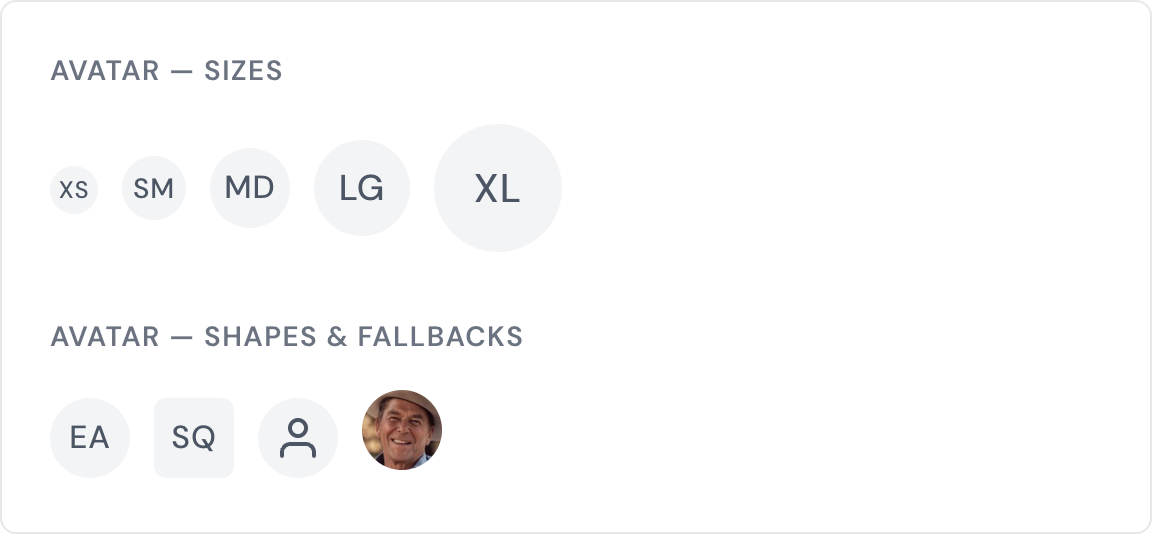
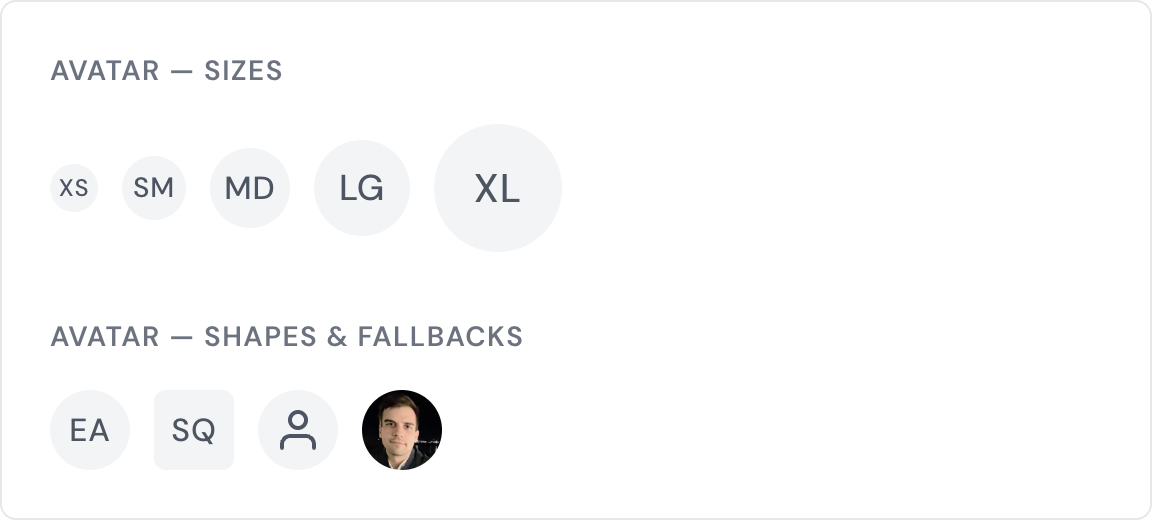
v0.4.0 (#3)

diff --git a/src/lib/avatar-editor/avatar-editor.component.ts b/src/lib/avatar-editor/avatar-editor.component.ts
@@ -6,6 +6,7 @@ import {
   OnDestroy,
   ViewEncapsulation,
   computed,
+  effect,
   input,
   output,
   signal,
@@ -64,6 +65,14 @@ export class AvatarEditorComponent implements OnDestroy {
   }));
 
   private readonly boundWheel = (e: WheelEvent) => this.onWheel(e);
+
+  constructor() {
+    effect(() => {
+      const src = this.currentSrc();
+      if (!src) return;
+      this.loadFromUrl(src);
+    });
+  }
 
   ngOnDestroy(): void {
     const canvas = this.canvasEl()?.nativeElement;
@@ -227,6 +236,25 @@ export class AvatarEditorComponent implements OnDestroy {
       this.exportType(),
       this.exportQuality(),
     );
+  }
+
+  private loadFromUrl(url: string): void {
+    const img = new Image();
+    img.crossOrigin = 'anonymous';
+    img.onload = () => {
+      this.image = img;
+      this.hasImage.set(true);
+      this.zoom.set(1);
+      this.centerImage();
+
+      requestAnimationFrame(() => {
+        this.draw();
+        const canvas = this.canvasEl()?.nativeElement;
+        canvas?.removeEventListener('wheel', this.boundWheel);
+        canvas?.addEventListener('wheel', this.boundWheel, { passive: false });
+      });
+    };
+    img.src = url;
   }
 
   private loadFile(file: File): void {

diff --git a/sandbox/sandbox.component.html b/sandbox/sandbox.component.html
@@ -308,7 +308,7 @@
     <ea-avatar initials="SQ" shape="square"></ea-avatar>
     <ea-avatar shape="circle"></ea-avatar>
     <ea-avatar
-      src="https://i.pravatar.cc/128?u=eagami"
+      src="assets/sample-avatar.jpg"
       alt="User photo">
     </ea-avatar>
   </div>
@@ -334,6 +334,18 @@
   <ea-avatar-editor
     shape="square"
     [canvasSize]="180" />
+
+  <h2>Avatar Editor — circle with existing image</h2>
+  <ea-avatar-editor
+    shape="circle"
+    [canvasSize]="180"
+    currentSrc="assets/sample-avatar.jpg" />
+
+  <h2>Avatar Editor — square with existing image</h2>
+  <ea-avatar-editor
+    shape="square"
+    [canvasSize]="180"
+    currentSrc="assets/sample-avatar.jpg" />
 </section>
 
 <!-- ─── Badge ──────────────────────────────────────────────────────────── -->

diff --git a/src/lib/avatar-editor/avatar-editor.component.scss b/src/lib/avatar-editor/avatar-editor.component.scss
@@ -116,13 +116,12 @@
     border: var(--border-width-thin) solid var(--color-border-default);
     border-radius: var(--radius-md);
     background-color: var(--color-bg-base);
-    color: var(--color-text-secondary);
+    color: var(--color-text-primary);
     cursor: pointer;
     transition: var(--transition-colors);
 
     &:hover:not(:disabled) {
       border-color: var(--color-border-focus);
-      color: var(--color-text-primary);
     }
 
     &:focus-visible {

diff --git a/src/lib/avatar/avatar.component.ts b/src/lib/avatar/avatar.component.ts
@@ -19,6 +19,7 @@ export type AvatarShape = 'circle' | 'square';
   styleUrl: './avatar.component.scss',
   changeDetection: ChangeDetectionStrategy.OnPush,
   encapsulation: ViewEncapsulation.None,
+  host: { style: 'display: inline-block; line-height: 0;' },
 })
 export class AvatarComponent {
   readonly src = input<string | undefined>(undefined);

diff --git a/CHANGELOG.md b/CHANGELOG.md
@@ -5,6 +5,18 @@ All notable changes to this project will be documented in this file.
 The format is based on [Keep a Changelog](https://keepachangelog.com/en/1.1.0/),
 and this project adheres to [Semantic Versioning](https://semver.org/spec/v2.0.0.html).
 
+## [0.4.0] - 2026-03-22
+
+### Changed
+
+- Use `--color-text-primary` as default color for `AvatarEditorComponent` zoom buttons instead of `--color-text-secondary`
+
+### Fixed
+
+- Set `display: inline-block; line-height: 0` on `AvatarComponent` host element to eliminate extra space below the avatar
+- Load `currentSrc` image in `AvatarEditorComponent` on initialization so pre-existing avatars display in the editor
+- Use local sample avatar image in sandbox instead of external URL
+
 ## [0.3.0] - 2026-03-21
 
 ### Added
@@ -53,6 +65,7 @@ and this project adheres to [Semantic Versioning](https://semver.org/spec/v2.0.0
 - Global SCSS design tokens for colors, typography, spacing, elevation, motion, and shape
 - CSS custom property theming support
 
+[0.4.0]: https://github.com/mwiraszka/eagami-design-system/compare/v0.3.0...v0.4.0
 [0.3.0]: https://github.com/mwiraszka/eagami-design-system/compare/v0.2.0...v0.3.0
 [0.2.0]: https://github.com/mwiraszka/eagami-design-system/compare/v0.1.0...v0.2.0
 [0.1.0]: https://github.com/mwiraszka/eagami-design-system/releases/tag/v0.1.0

diff --git a/README.md b/README.md
@@ -1,5 +1,5 @@
 <p align="center">
-  <img src="docs/images/header.png" alt="eagami design system — elegant web design." width="560" />
+  <img src="docs/images/header.png" alt="eagami design system — elegant web design." width="800" />
 </p>
 
 A lightweight, accessible Angular component library built on CSS custom properties. Ready to use out of the box — install, import, and start building.
@@ -33,7 +33,7 @@ Every component is standalone, signal-based, and fully themed via design tokens.
 
 - **Zero configuration** — works immediately after install with sensible defaults
 - **Standalone components** — no `NgModule` boilerplate, just import and use
-- **Signal-based** — built on Angular's modern reactivity primitives (`input()`, `model()`, `output()`)
+- **Signal-based** — built on Angular's modern reactivity primitives (`input()`, `model()`, `output()`, `effect()`)
 - **Full theming via CSS custom properties** — override any design token on `:root` or scope overrides to individual components
 - **Dark mode built in** — automatic via `prefers-color-scheme`, no extra setup
 - **Accessible** — ARIA attributes, keyboard navigation, focus management, and screen reader support throughout
